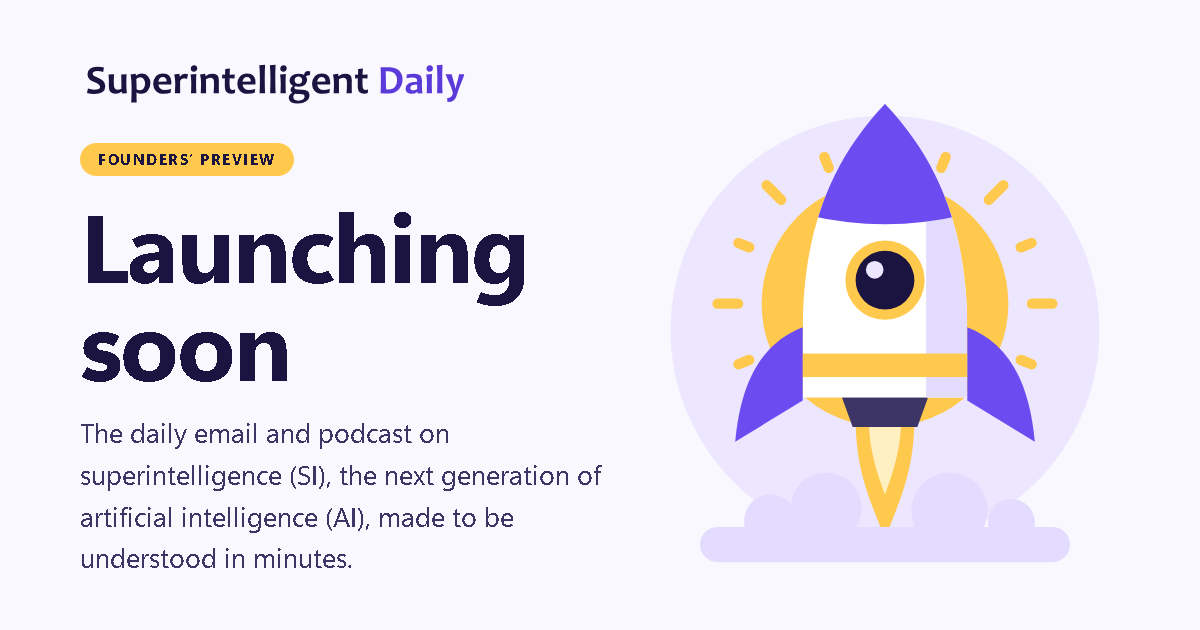
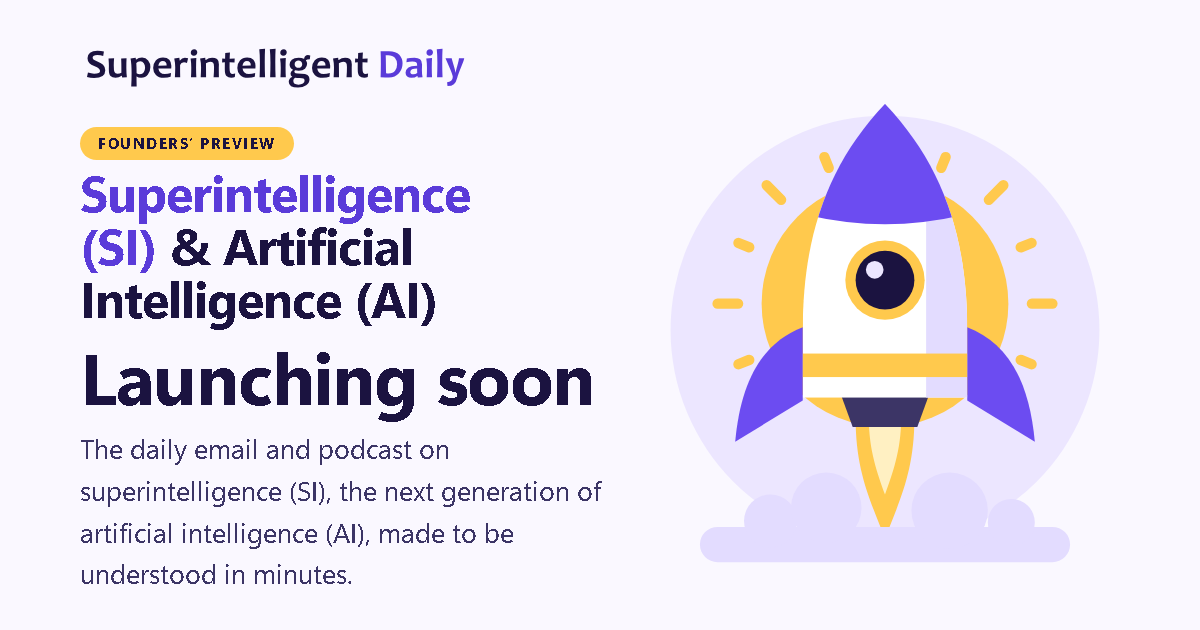
Superintelligence (SI) & Artificial Intelligence (AI) big, bold, front and center (his 10-03 18:59)

Changed region(s): [[0.0617, 0.181, 0.4933, 0.9349], [0.0617, 0.0603, 0.4008, 0.1508]]

diff --git a/index.html b/index.html
@@ -33,6 +33,7 @@
          (same file name), or drop in a PNG/SVG and change src, width and height here. See README.md. -->
     <a class="brand" href="/" aria-label="Superintelligent Daily, home"><img class="logo" id="logo" src="assets/logo.svg" width="247" height="38" alt="Superintelligent Daily"></a>
   </header>
+  <p class="terms"><span class="t-si">Superintelligence (SI)</span> <span class="t-amp">&amp;</span> <span class="t-ai">Artificial Intelligence (AI)</span></p>
   <main id="main">
     <div class="stage">
 <svg class="rocket" viewBox="0 0 320 360" aria-hidden="true" focusable="false">
@@ -61,8 +62,6 @@
     </div>
     <div class="copy">
       <p class="pill">Founders&rsquo; Preview</p>
-      <p class="topic">Superintelligence (SI) &middot; Artificial Intelligence (AI)</p>
-
       <h1><span class="sr">Superintelligent Daily: </span>Launching soon</h1>
       <p class="lead">The daily email and podcast on superintelligence (SI), the next generation of artificial intelligence (AI), made to be understood in minutes.</p>
       <form class="join" id="join" novalidate>

diff --git a/assets/style.css b/assets/style.css
@@ -77,4 +77,8 @@ footer{padding-top:24px;text-align:center;font-size:.875rem;color:var(--muted)}
   footer{text-align:left}
 }
 
-.topic{margin:.2rem 0 .4rem;font-weight:700;font-size:clamp(1.05rem,2.6vw,1.35rem);letter-spacing:.01em;line-height:1.35}
+.terms{margin:16px auto 2px;max-width:24ch;text-align:center;font:800 clamp(1.75rem,7.6vw,3.6rem)/1.06 var(--display);letter-spacing:-.02em;text-wrap:balance;color:var(--ink)}
+.terms .t-si{color:var(--accent)}
+.terms .t-pre{display:block;margin:0 0 .5rem;font:700 clamp(.95rem,2.8vw,1.2rem)/1.3 var(--sans);letter-spacing:.01em;color:var(--ink2)}
+h1{font-size:clamp(2rem,8vw,3rem)}
+@media (min-width:900px){.terms{max-width:none;margin-top:26px}h1{font-size:clamp(2.4rem,3.6vw,3rem)}}
